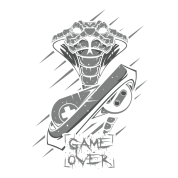
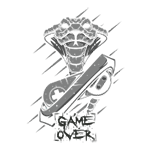
BG added

diff --git a/src/com/codecool/snake/Main.java b/src/com/codecool/snake/Main.java
@@ -2,7 +2,14 @@ package com.codecool.snake;
 
 import javafx.application.Application;
 import javafx.scene.Scene;
+import javafx.scene.image.Image;
+import javafx.scene.layout.Pane;
+import javafx.scene.text.Font;
+import javafx.scene.text.Text;
 import javafx.stage.Stage;
+
+
+import java.awt.*;
 
 public class Main extends Application {
 
@@ -10,13 +17,25 @@ public class Main extends Application {
         launch(args);
     }
 
-    @Override
-    public void start(Stage primaryStage) {
-        Game game = new Game();
+    public void start(Stage primaryStage) throws InterruptedException {
         primaryStage.setTitle("Snake Game");
-        primaryStage.setScene(new Scene(game, Globals.WINDOW_WIDTH, Globals.WINDOW_HEIGHT));
+        Pane pane = new Pane();
+        Text text = new Text(150, Globals.WINDOW_HEIGHT / 2, "Snake Game by Abba");
+        text.setFont(new Font("Verdana", 65));
+        pane.getChildren().add(text);
+        Scene scene = new Scene(pane, Globals.WINDOW_WIDTH, Globals.WINDOW_HEIGHT);
+        primaryStage.setScene(scene);
         primaryStage.show();
-        game.start();
+        scene.setOnKeyPressed(e -> {
+                    Game game = new Game();
+                    primaryStage.setTitle("Snake Game");
+                    game.setTableBackground(new Image("snake_2.png"), false);
+                    primaryStage.setScene(new Scene(game, Globals.WINDOW_WIDTH, Globals.WINDOW_HEIGHT));
+                    primaryStage.show();
+                    game.start();
+                }
+        );
     }
+
 
 }

diff --git a/src/com/codecool/snake/Game.java b/src/com/codecool/snake/Game.java
@@ -6,8 +6,9 @@ import com.codecool.snake.entities.snakes.SnakeHead;
 import javafx.event.EventHandler;
 import javafx.scene.Scene;
 import javafx.scene.control.Button;
+import javafx.scene.image.Image;
 import javafx.scene.input.MouseEvent;
-import javafx.scene.layout.Pane;
+import javafx.scene.layout.*;
 
 
 public class Game extends Pane {
@@ -76,6 +77,12 @@ public class Game extends Pane {
         init();
         restartButton(pane);
         Globals.gameLoop.start();
+    }
+    public void setTableBackground(Image tableBackground, boolean repeat) {
+        BackgroundRepeat backgroundRepeat = repeat ? BackgroundRepeat.REPEAT : BackgroundRepeat.NO_REPEAT;
+        setBackground(new javafx.scene.layout.Background(new BackgroundImage(tableBackground,
+                backgroundRepeat, backgroundRepeat,
+                BackgroundPosition.CENTER, BackgroundSize.DEFAULT)));
     }
 
 }

diff --git a/src/com/codecool/snake/entities/snakes/SnakeHead.java b/src/com/codecool/snake/entities/snakes/SnakeHead.java
@@ -121,7 +121,7 @@ public class SnakeHead extends GameEntity implements Animatable {
             System.out.println("Game Over");
             ImageView gameOver = new ImageView(Globals.gameOver);
             gameOver.setX(400);
-            gameOver.setY(230);
+            gameOver.setY(0);
             pane.getChildren().add(gameOver);
             Globals.gameLoop.stop();
         }
